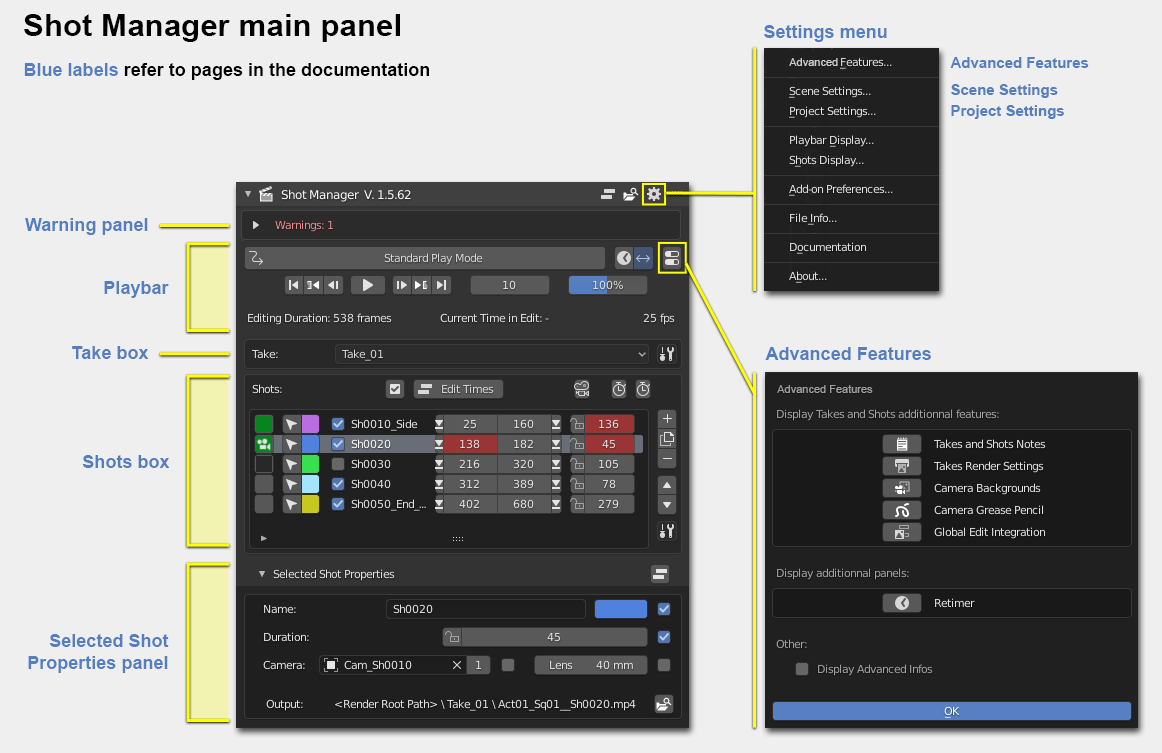
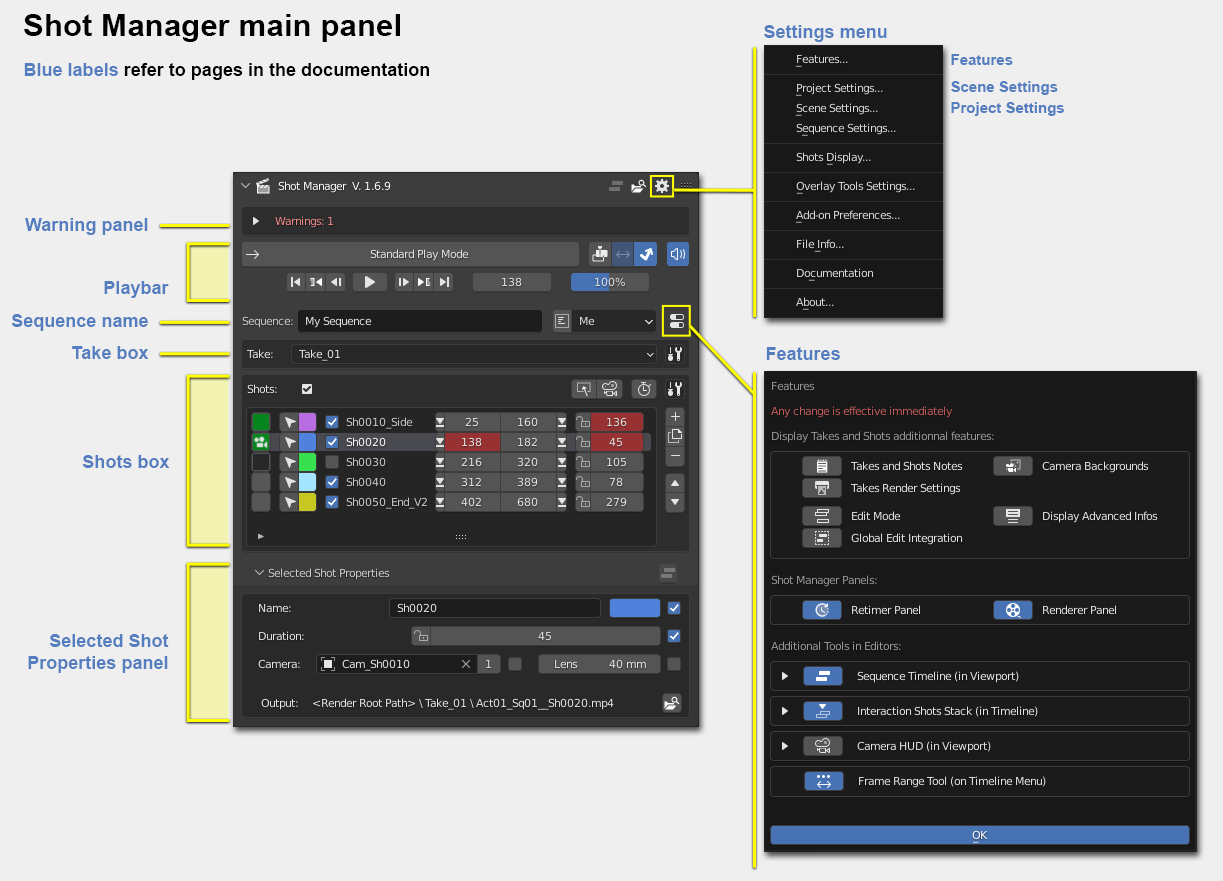
Update doc

diff --git a/docs/features-advanced/panel-features.rst b/docs/features-advanced/panel-features.rst
@@ -1,9 +1,9 @@
-.. _advanced-features:
+.. _panel-features:
 
-Advanced features
-=================
+Panel features
+==============
 
-Advanced features are a set of modules that can be triggered in order to extend the capabilities of Shot Manager.
+Panel features are a set of modules that can be triggered in order to extend the capabilities of Shot Manager.
 When activated a module and its related graphics components will become visible in the main panel, at various places
 according to its way of working.
 
@@ -22,7 +22,7 @@ There are 2 ways to open the Features dialog box:
 
 ..  image:: /img/features-advanced/SM_Features_OpenFromSettings.png
     :align: center
-    :scale: 80%
+    :scale: 100%
 
 - Or directly click on the *Features* button.
   
@@ -31,13 +31,13 @@ There are 2 ways to open the Features dialog box:
 
 ..  image:: /img/features-advanced/SM_Features_OpenFromButton.png
     :align: center
-    :scale: 80%
+    :scale: 100%
 
 The Features dialog box gets opened. It allows the listed featuers to be toggled by a simple click on they associated button.
 
 ..  image:: /img/features-advanced/SM_Features_DialogBox.png
     :align: center
-    :scale: 80%
+    :scale: 100%
 
 
 

diff --git a/docs/index.rst b/docs/index.rst
@@ -10,6 +10,8 @@ Ubisoft Shot Manager: Creative narration and editing with Blender
 
 **Manage the cameras and the editing of your scenes inside Blender in real time and with great simplicity.**
 
+**Current version is 1.6. The currently supported Blender versions are 2.93.x and 3.0.x.**
+
 ..  image:: /img/ShotManager_screen.png
     :align: center
     :width: 80%
@@ -31,11 +33,6 @@ Be aware that neither Ubisoft nor Ubisoft employees can be taken as responsible 
 
 **This said, we will do our best to listen to your feedback and improve this add-on accordingly in order to provide a robust and flexible production tool.
 Have fun !**
-
-.. warning::
-   !! Blender 2.93: Some features (EDL imports and exports) are NOT YET SUPPORTED ONT THIS VERSION because there is currently no OpenTimelineIO package for Python 3.9 !!
-   
-   This will be fixed as soon as possible.
 
    
 Getting started
@@ -74,7 +71,7 @@ Then:
 
    /features/features
    /features/main-panel
-   /features-advanced/advanced-features
+   /features-advanced/panel-features
    
 .. toctree::
    :maxdepth: 3

diff --git a/docs/getting-started/install.rst b/docs/getting-started/install.rst
@@ -6,10 +6,8 @@ Supported versions
 
 Shot Manager is developed and actively tested on Windows 10. Community users reported successful usage on Linux platform. 
 
-The currently supported Blender version is 2.93. Shot Manager also loads successfully and should work on 2.83 LTS.
+The currently supported Blender versions are 2.93.x and 3.0.x. Shot Manager should also still work on 2.83 LTS.
 
-.. warning::
-    Shot Manager is currently not working on Blender 2.93 on Mac and Linux because no OpenTimelineIO package is available at the moment for Python 3.9.
 
 .. _download:
 
@@ -19,7 +17,7 @@ Download
 Open the `latest release <https://github.com/ubisoft/shotmanager/releases/latest>`__  page from the Shot Manager Gihub `releases page <https://github.com/ubisoft/shotmanager/releases>`_.
 Download the zip file listed in **Assets** that has the package icon: |package-icon|.
 
-.. |package-icon| image:: /docs/img/package-icon.png
+.. |package-icon| image:: /img/package-icon.png
 
 .. _installing:
 

diff --git a/docs/features-advanced/retimer.rst b/docs/features-advanced/retimer.rst
@@ -19,7 +19,7 @@ To display the Retimer panel open the :ref:`Features dialog box <advanced-featur
 
 ..  image:: /img/features-advanced/SM_Features_Retimer.png
     :align: center
-    :scale: 80%
+    :scale: 100%
 
 The panel then appears below the Shot Manager main panel.
 

diff --git a/docs/features/main-panel.rst b/docs/features/main-panel.rst
@@ -5,10 +5,10 @@ Main panel
 
 
 
-..  image:: /docs/img/ShotManagerPanel_Main.png
+..  image:: /img/ShotManagerPanel_Main.png
     :align: center
     :width: 100%
 
 
-- :ref:`Advanced features <advanced-features>`
+- :ref:`Panel features <panel-features>`
 
